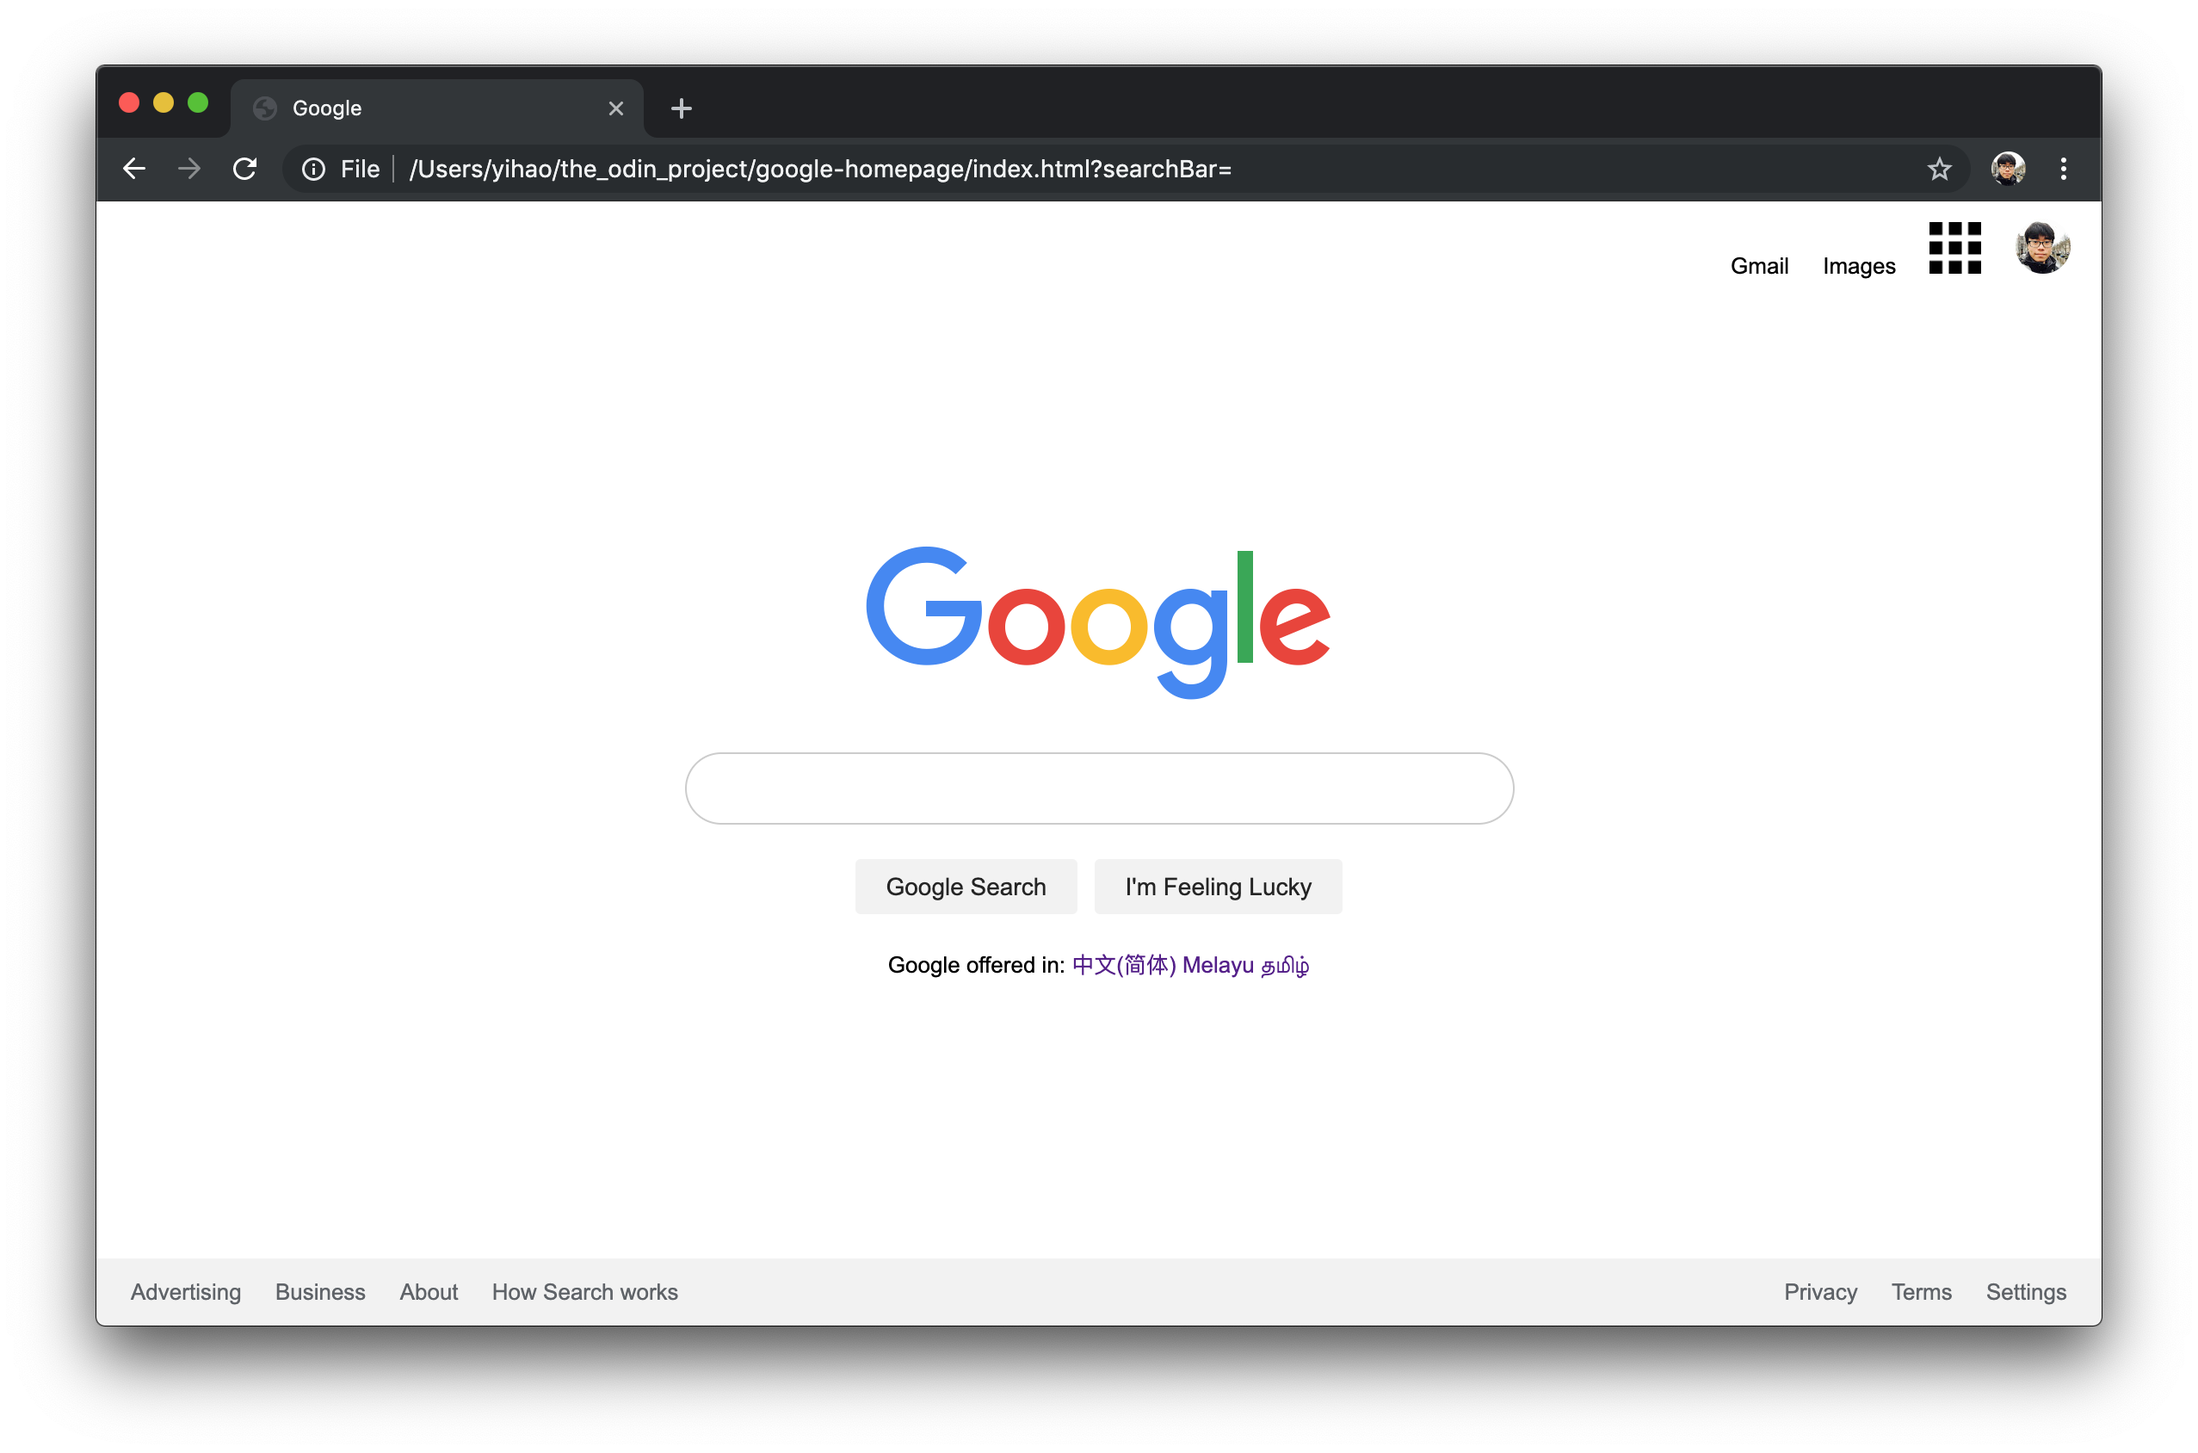
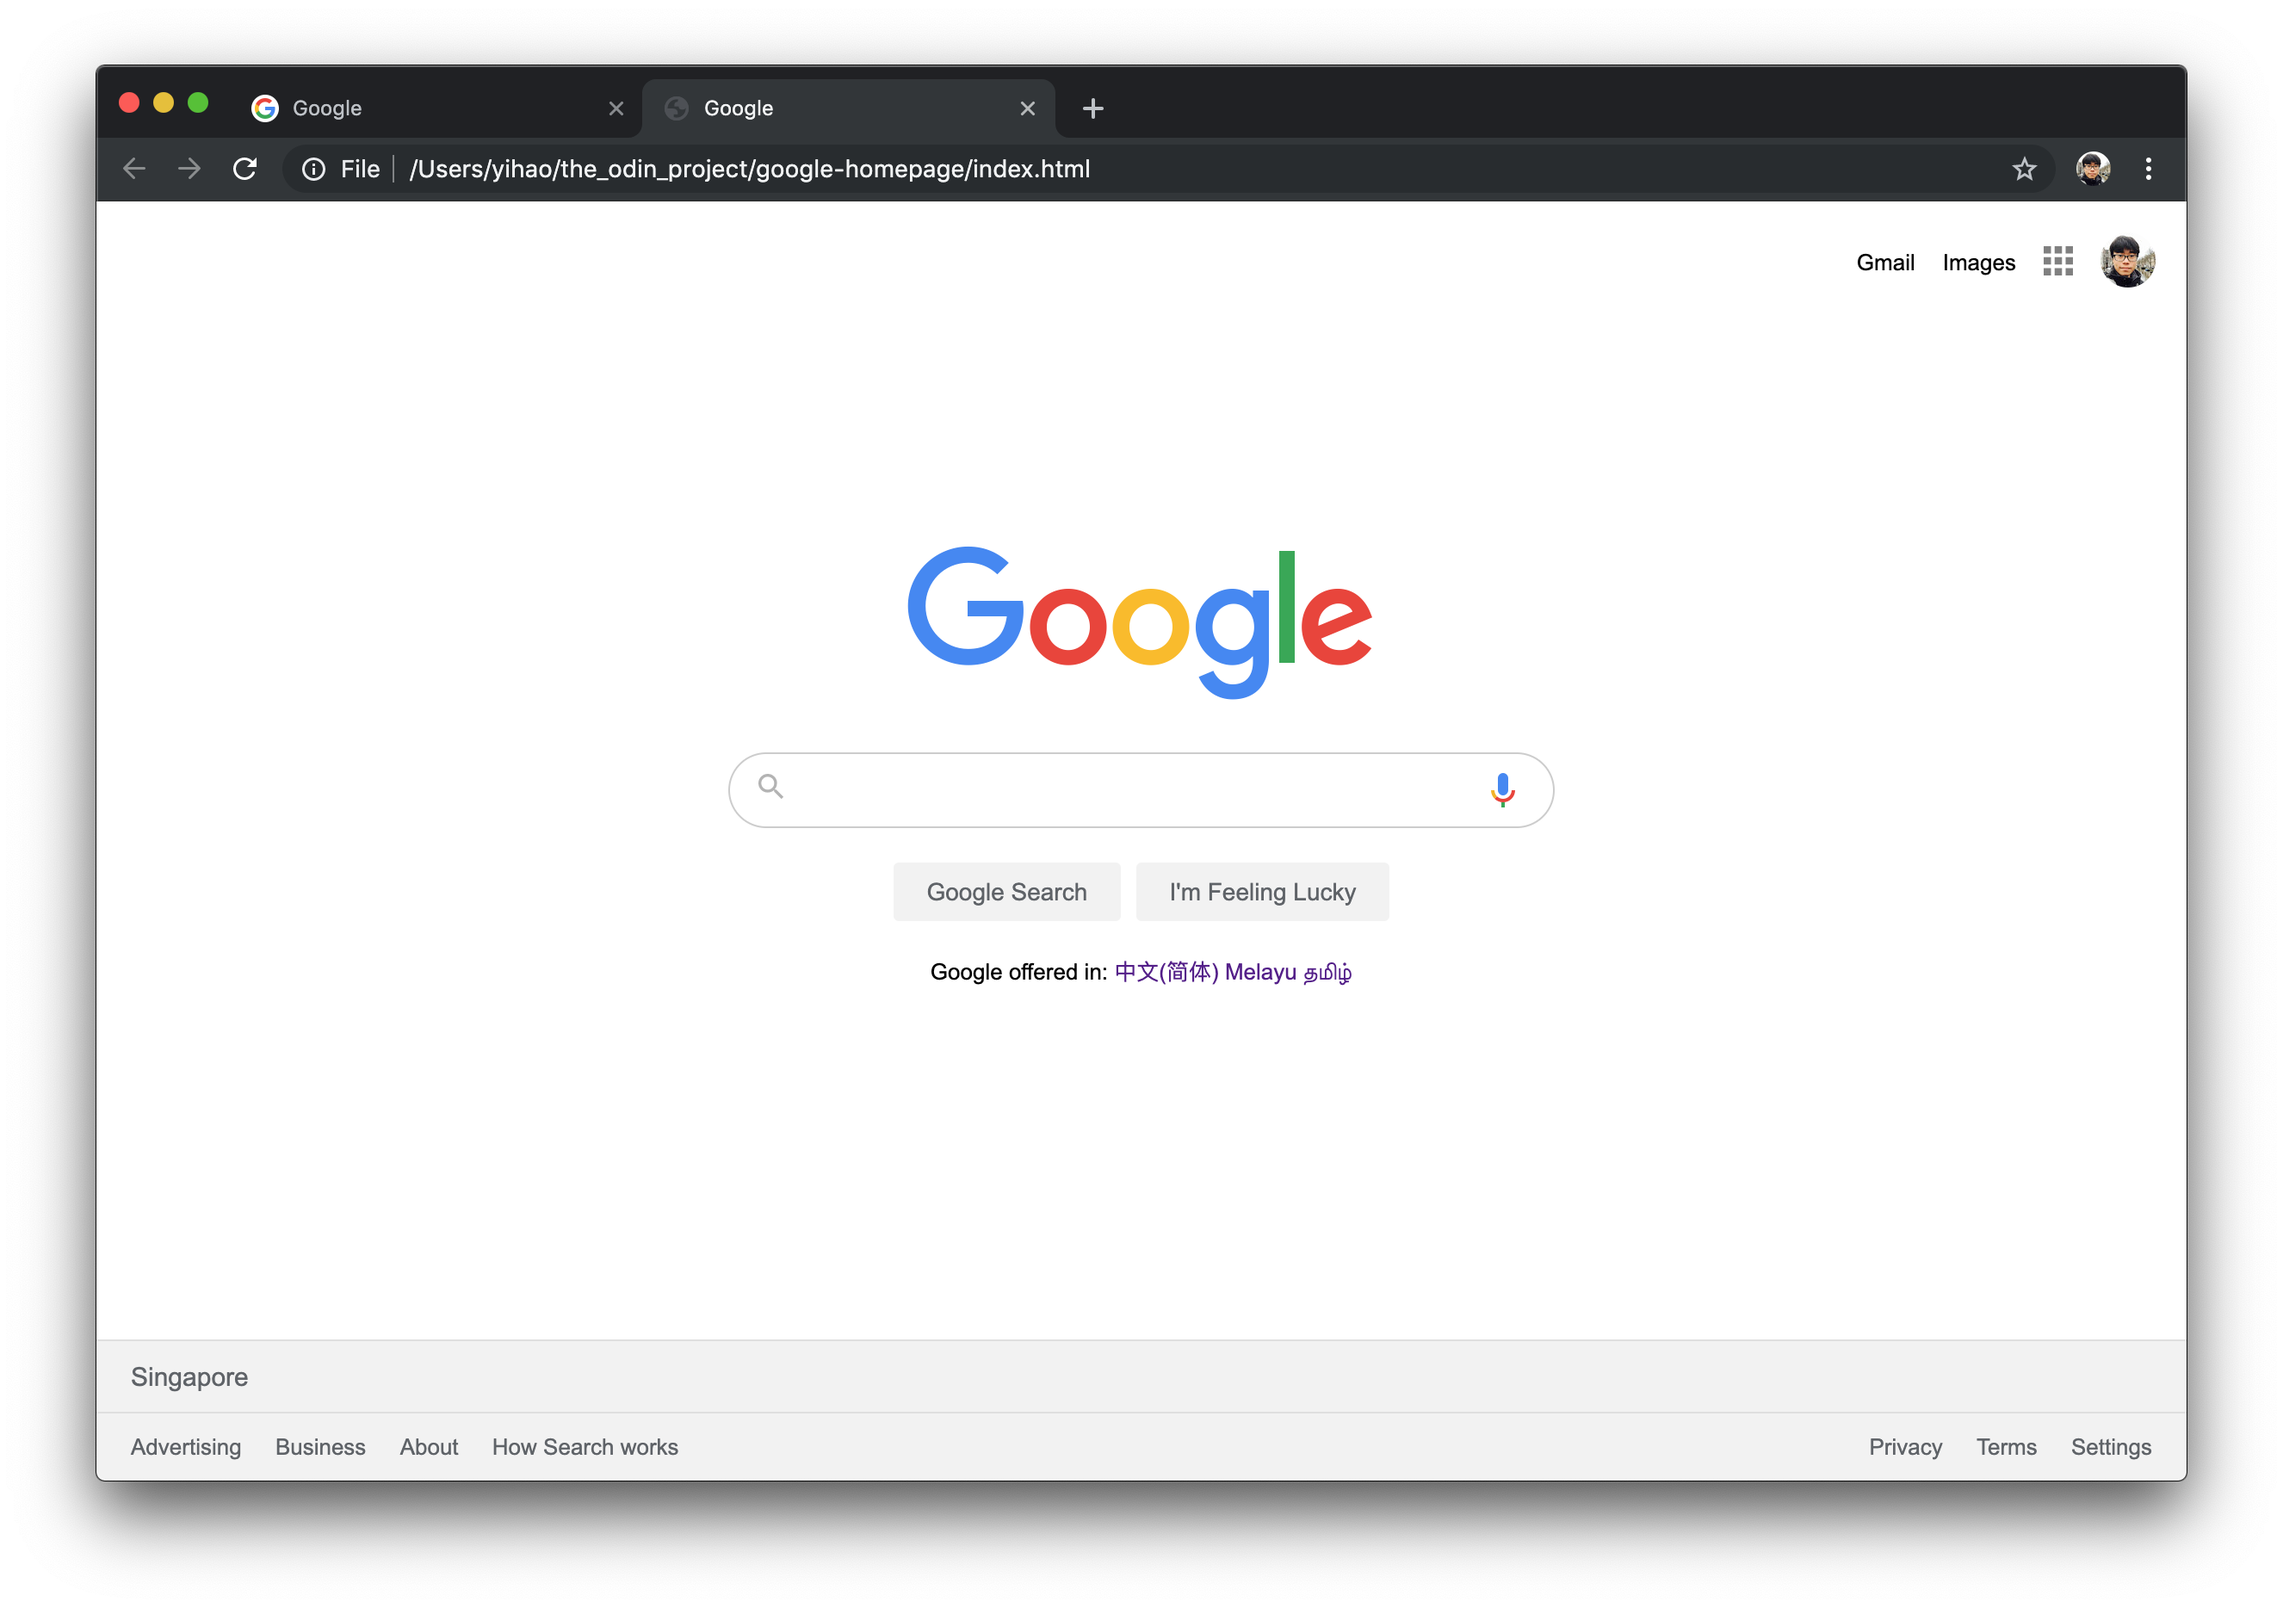
changed screenshot images

diff --git a/styles/style.css b/styles/style.css
@@ -80,7 +80,7 @@ main {
 
 .searchBar input {
     width: 480px;
-    height: 40px;
+    height: 44px;
     font-size: 16px;
     border-radius: 50px;
     border: none;
@@ -90,7 +90,7 @@ main {
     background-origin: content-box;
     padding: 0 17px 0 50px;
     /* display: block; */
-    /* box-sizing: border-box; */
+    box-sizing: border-box;
 }
 
 .searchBar svg {
